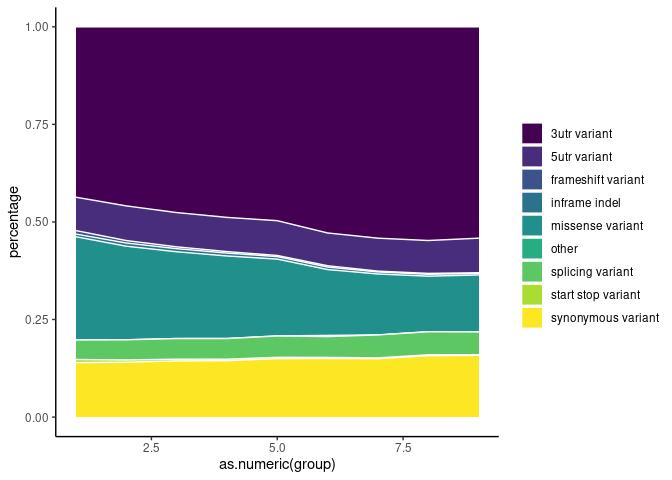
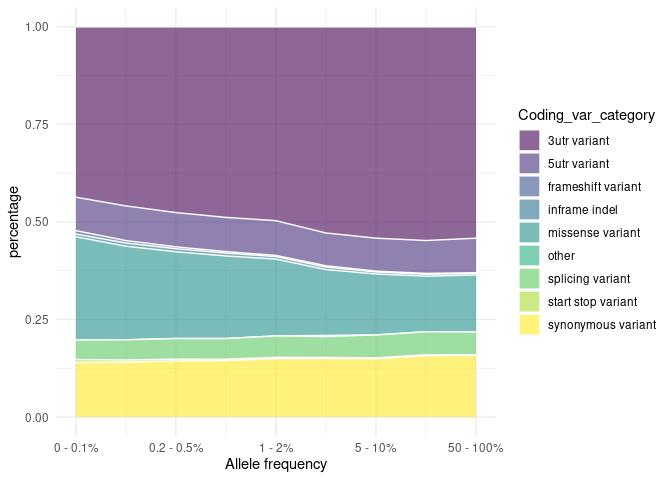
new plot

diff --git a/variants_af/variants_af.md b/variants_af/variants_af.md
@@ -111,7 +111,11 @@ individuals
 
 ### 9. Variants per consequence
 
-### 10. Consequence & frequency
+    ## Loading required package: viridisLite
+
+    ## `summarise()` has grouped output by 'group'. You can override using the `.groups` argument.
+
+![](variants_af_files/figure-gfm/unnamed-chunk-5-1.jpeg)<!-- -->
 
 ## 11. NBS
 
